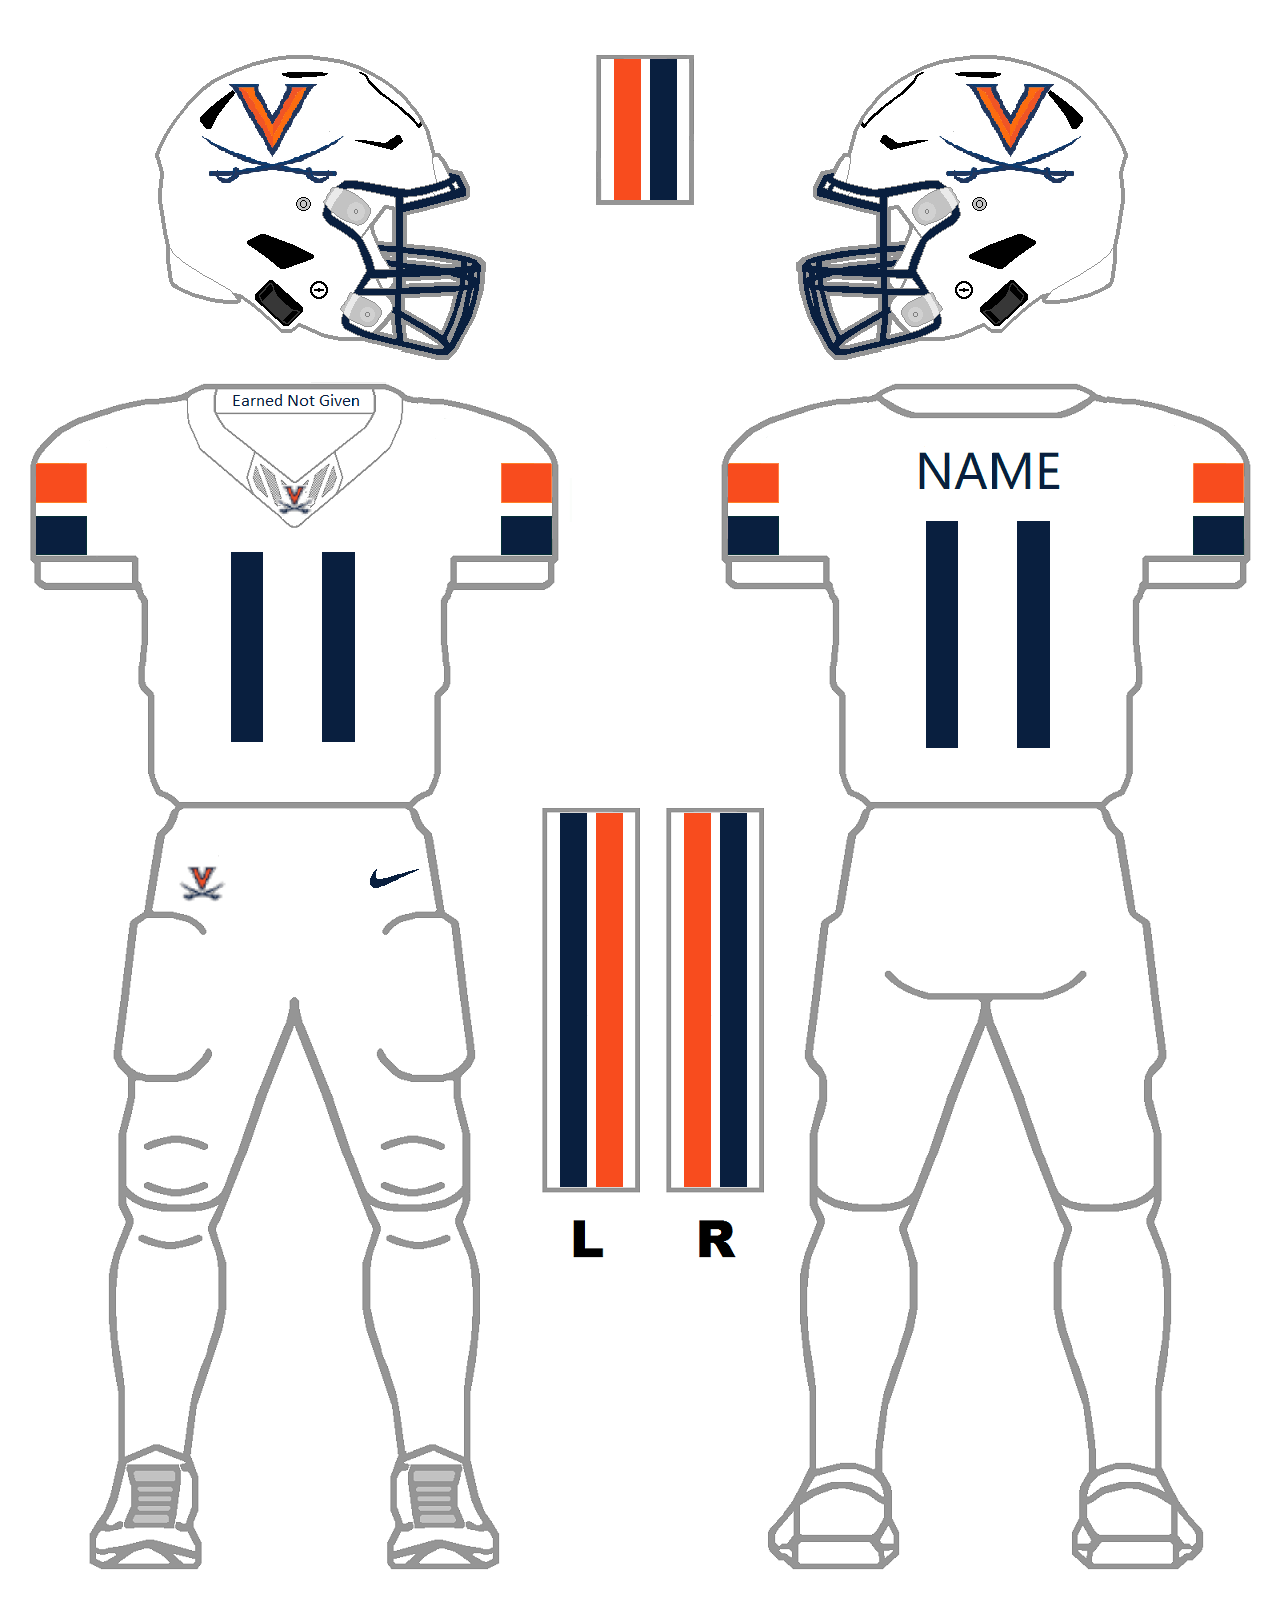
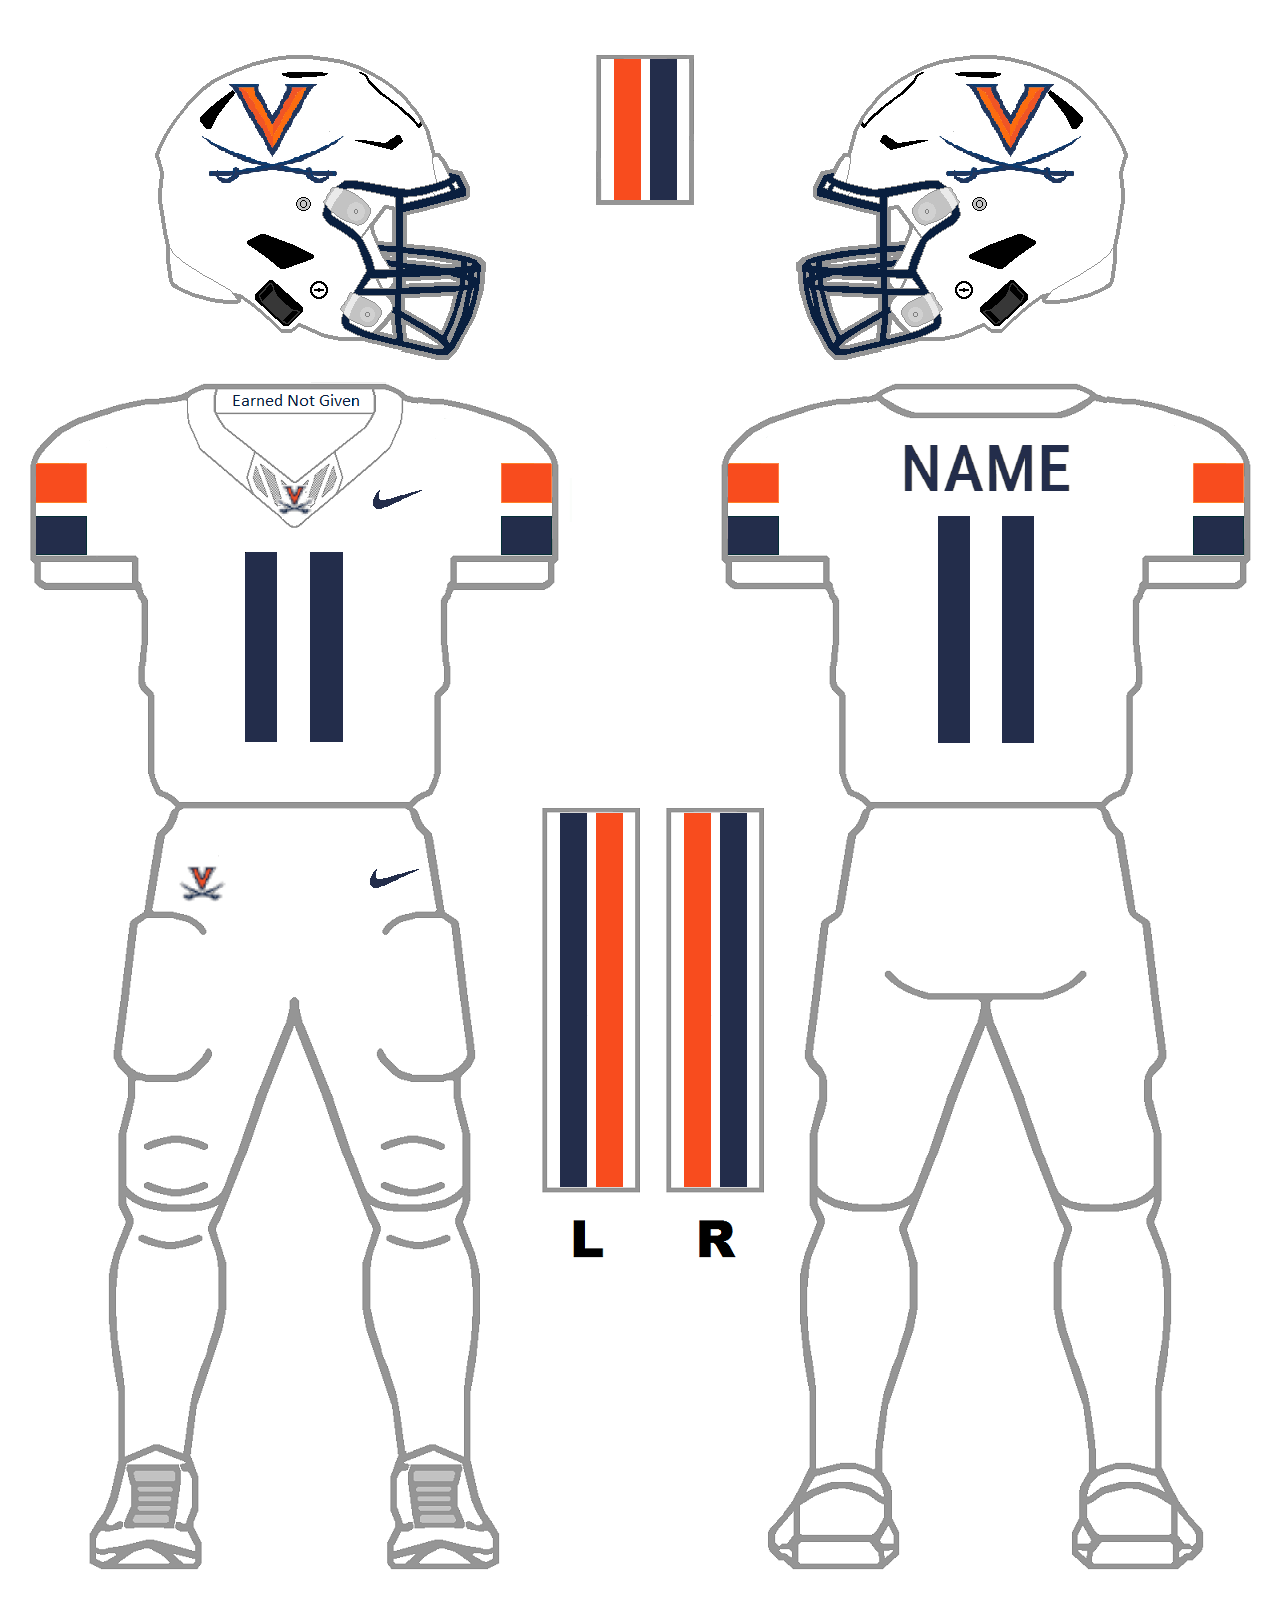
updates 2023 away uni and added 2023 home

diff --git a/README.md b/README.md
@@ -9,6 +9,7 @@ https://www.youtube.com/watch?v=DjkwjL0DuZY&ab_channel=AliHossain
 
 UVA Brand colors
 https://brand.virginia.edu/design-assets/colors
+https://brand.virginia.edu/design-assets/athletics
 
 Uniform template temporary
 https://www.gridiron-uniforms.com/GUD/controller/controller.php?action=wwww&year=2023
@@ -18,3 +19,14 @@ https://www.hoosfootball.com/Uniform_Summaries_and_GamePhotos/2013_Uniform.html
 
 Grid Help
 https://mdbootstrap.com/docs/standard/extended/image-grid/
+
+Font for N.O.B.: Meduim 500
+https://fonts.google.com/specimen/Roboto+Condensed?preview.text=NAME&sort=popularity
+
+
+
+need white orange orange white vs jmu
+need blue blue blue white vs nc state and vtech
+need blue blue white white vs w&m and gtech, and duke
+
+rest is all white vs tenesse, unc, maryland, bc, lousville, and miami
